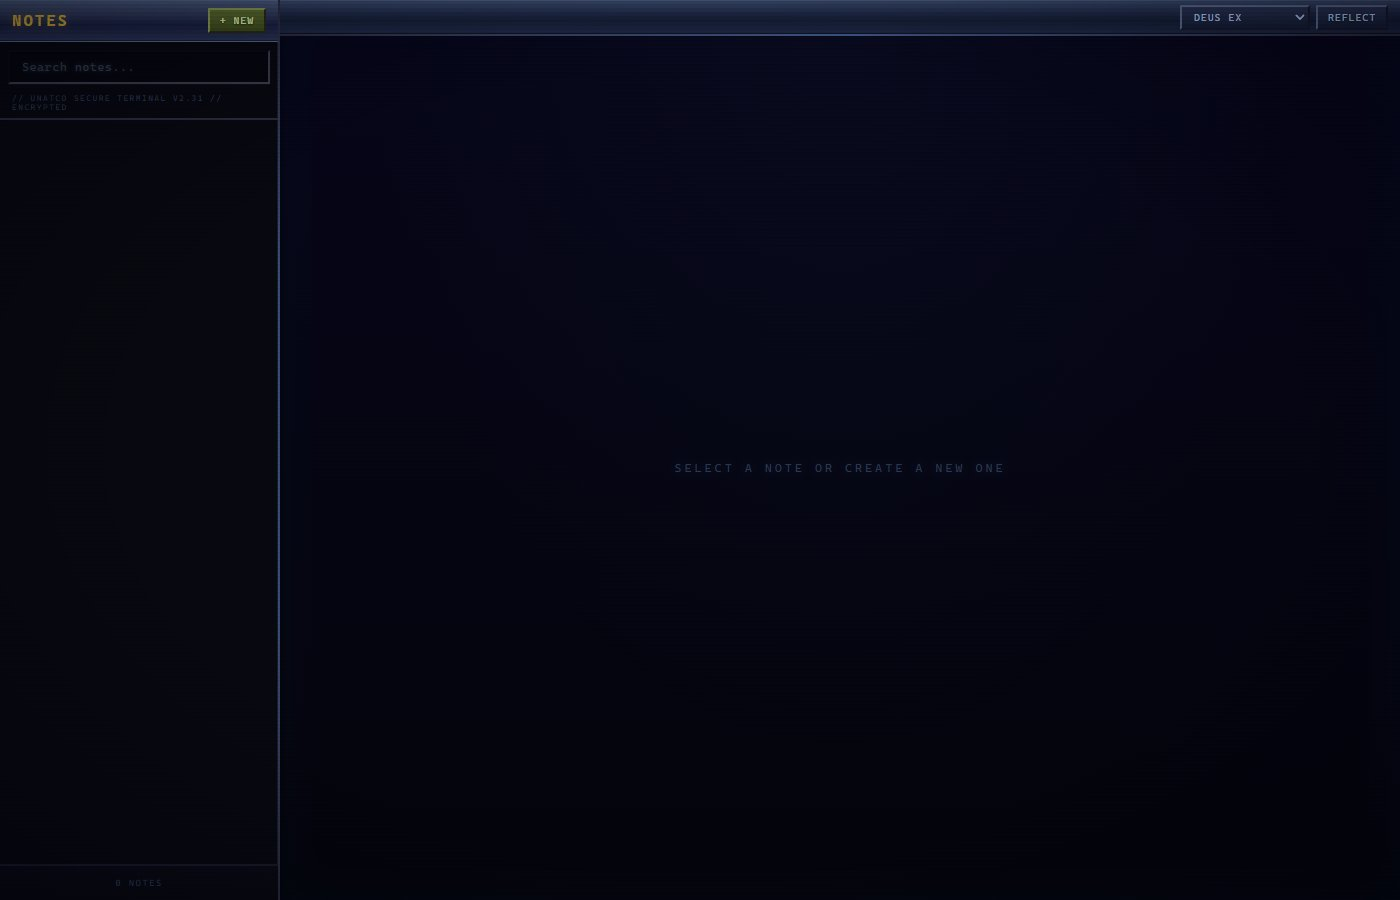
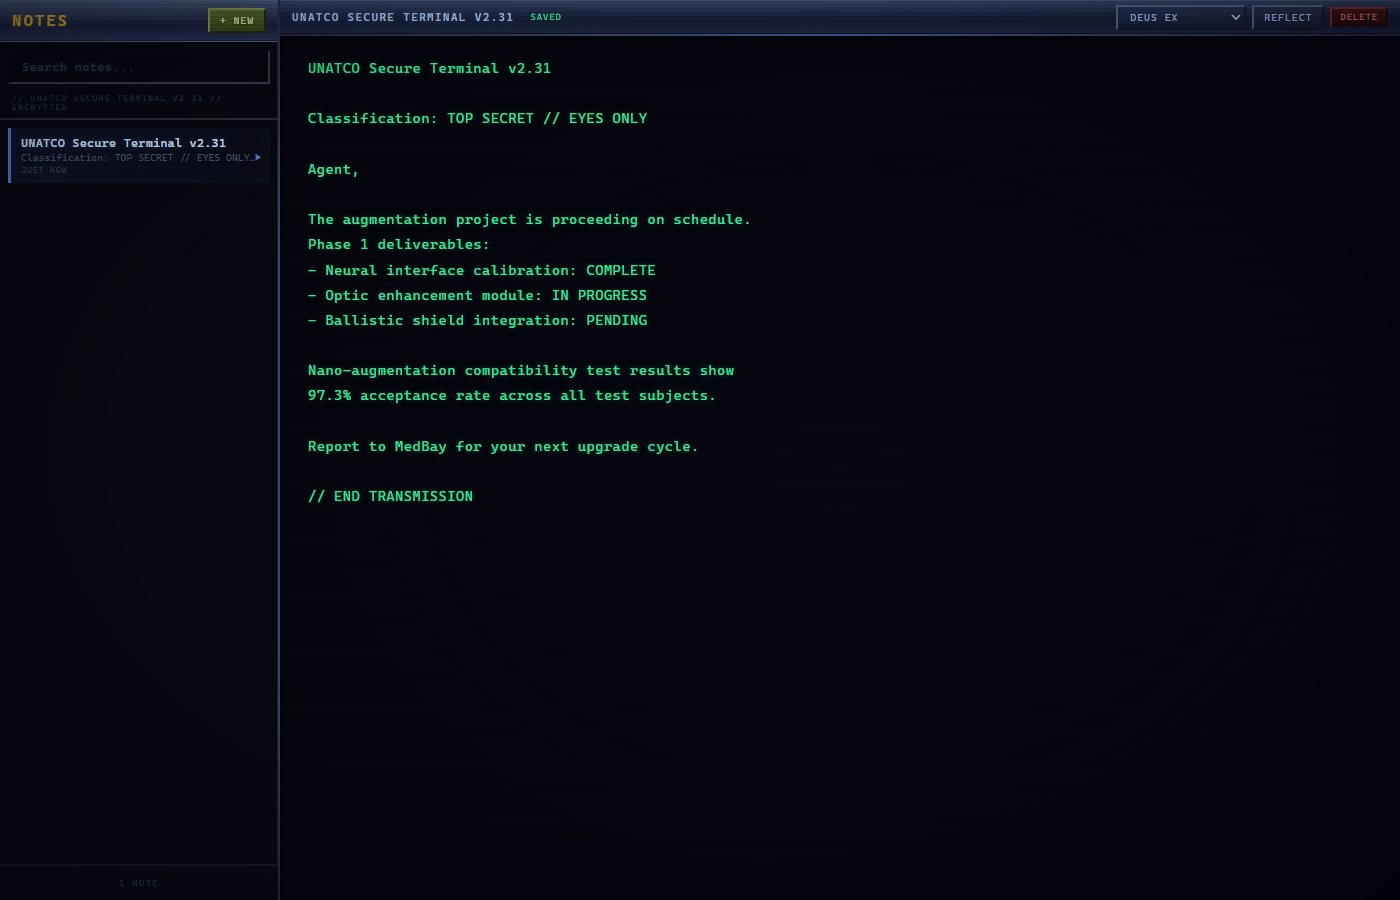
Update about (Meta monetization, AI-native), fix theme screenshots, add Podcast Editor + Suno Video Generator, remove Smurf Village + Finance Dashboard

diff --git a/podcast-editor.html b/podcast-editor.html
@@ -1,0 +1,158 @@
+<!DOCTYPE html>
+<html lang="en">
+<head>
+  <meta charset="UTF-8">
+  <meta name="viewport" content="width=device-width, initial-scale=1.0">
+  <title>Podcast Editor — Nick Eisele</title>
+  <meta name="description" content="A full-pipeline podcast editor with AI-powered transcription, silence detection, content flagging, and waveform editing.">
+  <link rel="preconnect" href="https://fonts.googleapis.com">
+  <link rel="preconnect" href="https://fonts.gstatic.com" crossorigin>
+  <link href="https://fonts.googleapis.com/css2?family=Inter:wght@400;500;600;700&family=JetBrains+Mono:wght@400;500&display=swap" rel="stylesheet">
+  <link rel="stylesheet" href="style.css">
+  <link rel="stylesheet" href="project-page.css">
+</head>
+<body>
+
+  <nav class="nav" id="nav">
+    <a href="index.html" class="nav-logo">NE</a>
+    <div class="nav-links">
+      <a href="index.html#projects">Projects</a>
+      <a href="index.html#contact">Contact</a>
+    </div>
+    <button class="nav-toggle" aria-label="Toggle menu" id="nav-toggle">
+      <span></span><span></span><span></span>
+    </button>
+  </nav>
+
+  <div class="mobile-menu" id="mobile-menu">
+    <a href="index.html#projects" onclick="closeMobile()">Projects</a>
+    <a href="index.html#contact" onclick="closeMobile()">Contact</a>
+  </div>
+
+  <header class="project-hero">
+    <a href="index.html#projects" class="back-link">&larr; All Projects</a>
+    <h1>Podcast Editor</h1>
+    <p class="project-hero-desc">A full-pipeline podcast editing app — upload raw footage, and it handles transcription, cleanup, editing, and export.</p>
+    <div class="project-meta">
+      <span class="tag">React 19</span>
+      <span class="tag">TypeScript</span>
+      <span class="tag">FastAPI</span>
+      <span class="tag">Whisper</span>
+      <span class="tag">Claude AI</span>
+      <span class="tag">WebSockets</span>
+      <span class="tag">FFmpeg</span>
+      <span class="tag">WaveSurfer.js</span>
+    </div>
+  </header>
+
+  <section class="section">
+    <div class="container">
+
+      <div class="showcase">
+        <img src="img/podcast-editor.jpg" alt="Podcast Editor — Projects view" class="showcase-img">
+        <p class="showcase-caption">The projects dashboard — pick up where you left off or start a new episode.</p>
+      </div>
+
+      <div class="project-overview">
+        <div class="overview-block">
+          <h2>What it is</h2>
+          <p>A web-based podcast editor that takes raw video/audio recordings and runs them through an automated processing pipeline: transcription via Whisper, silence detection, AI-powered content flagging (via Claude), filler word detection, mouth noise cleanup, and noise reduction.</p>
+          <p>After processing, you get an interactive waveform editor where you can review, approve, or reject each detected issue — then export a polished MP4 or MP3. The whole thing runs locally, no cloud uploads needed.</p>
+        </div>
+
+        <div class="overview-block">
+          <h2>Key Features</h2>
+          <ul class="feature-list">
+            <li><strong>Automatic processing pipeline</strong> — Upload files and the backend handles: audio extraction, Whisper transcription, silence detection, AI content flagging, mouth noise detection, filler word detection, and noise reduction.</li>
+            <li><strong>Waveform timeline editor</strong> — Visual waveform with color-coded segments (silence, AI-flagged, bleeps, mutes, manual cuts). Click to review, drag to adjust boundaries.</li>
+            <li><strong>AI content flagging</strong> — Claude analyzes the transcript and flags potentially problematic segments with explanations, so you can review before publishing.</li>
+            <li><strong>Word-level bleeping</strong> — Search the transcript and bleep specific words with a tone or mute, with precise word-level timing from Whisper.</li>
+            <li><strong>Speaker diarization</strong> — Automatic speaker separation with color-coded tracks. Assign names and labels to each speaker.</li>
+            <li><strong>Real-time progress</strong> — WebSocket connection streams processing status and export progress, including live video frame previews during render.</li>
+            <li><strong>Multi-file support</strong> — Upload multiple MP4/MOV files that get concatenated in order, with 10MB chunked uploads for large files.</li>
+          </ul>
+        </div>
+      </div>
+
+      <div class="overview-block">
+        <h2>The Processing Pipeline</h2>
+        <p>When you upload files, the backend kicks off a multi-stage pipeline. Each stage runs as a background task with real-time progress updates via WebSocket.</p>
+        <div class="arch-diagram">
+          <div class="arch-layer">
+            <span class="arch-label">Upload</span>
+            <span class="arch-detail">Chunked upload (10MB) → file concatenation → MP4/MOV</span>
+          </div>
+          <div class="arch-arrow">&darr;</div>
+          <div class="arch-layer">
+            <span class="arch-label">Extract</span>
+            <span class="arch-detail">FFmpeg audio extraction → WAV for processing</span>
+          </div>
+          <div class="arch-arrow">&darr;</div>
+          <div class="arch-layer">
+            <span class="arch-label">Transcribe</span>
+            <span class="arch-detail">faster-whisper → word-level timestamps + speaker indices</span>
+          </div>
+          <div class="arch-arrow">&darr;</div>
+          <div class="arch-layer">
+            <span class="arch-label">Detect</span>
+            <span class="arch-detail">Silence, mouth noise, filler words, padding phrases (parallel)</span>
+          </div>
+          <div class="arch-arrow">&darr;</div>
+          <div class="arch-layer">
+            <span class="arch-label">AI Flag</span>
+            <span class="arch-detail">Claude reviews transcript → flags problematic content with reasons</span>
+          </div>
+          <div class="arch-arrow">&darr;</div>
+          <div class="arch-layer">
+            <span class="arch-label">Edit</span>
+            <span class="arch-detail">Interactive waveform editor → approve/reject/adjust segments</span>
+          </div>
+          <div class="arch-arrow">&darr;</div>
+          <div class="arch-layer">
+            <span class="arch-label">Export</span>
+            <span class="arch-detail">Noise reduction → normalization → FFmpeg render → MP4/MP3</span>
+          </div>
+        </div>
+      </div>
+
+      <div class="overview-block">
+        <h2>Architecture</h2>
+        <div class="arch-diagram">
+          <div class="arch-layer">
+            <span class="arch-label">Frontend</span>
+            <span class="arch-detail">React 19 + TypeScript + Zustand + WaveSurfer.js + Tailwind CSS</span>
+          </div>
+          <div class="arch-arrow">&darr; HTTP + WebSocket</div>
+          <div class="arch-layer">
+            <span class="arch-label">Backend</span>
+            <span class="arch-detail">FastAPI + SQLAlchemy (SQLite) + arq (Redis task queue)</span>
+          </div>
+          <div class="arch-arrow">&darr;</div>
+          <div class="arch-layer">
+            <span class="arch-label">AI / ML</span>
+            <span class="arch-detail">faster-whisper (transcription) + Anthropic Claude (content classification)</span>
+          </div>
+          <div class="arch-arrow">&darr;</div>
+          <div class="arch-layer">
+            <span class="arch-label">Media</span>
+            <span class="arch-detail">FFmpeg (video/audio) + OpenCV + pydub + noisereduce + scipy</span>
+          </div>
+        </div>
+      </div>
+
+      <div class="overview-block">
+        <h2>Why I built it</h2>
+        <p>I was recording podcast episodes and the editing workflow was painful — silence trimming, content review, bleeping, and export all required different tools. I wanted one app that could take raw footage and handle the entire pipeline, with AI doing the tedious parts (flagging content, detecting filler words) so I could focus on creative decisions.</p>
+        <p>The waveform editor is the centerpiece. Each detected issue shows up as a color-coded segment on the timeline — amber for silence, red for AI-flagged content, pink for bleeps. You review each one, approve or reject, adjust the boundaries if needed, and export. The whole flow from raw footage to finished episode happens in one place.</p>
+      </div>
+
+    </div>
+  </section>
+
+  <footer class="footer">
+    <p>&copy; 2024 Nick Eisele. Built with care.</p>
+  </footer>
+
+  <script src="script.js"></script>
+</body>
+</html>

diff --git a/musetalk.html b/musetalk.html
@@ -1,0 +1,127 @@
+<!DOCTYPE html>
+<html lang="en">
+<head>
+  <meta charset="UTF-8">
+  <meta name="viewport" content="width=device-width, initial-scale=1.0">
+  <title>Suno Video Generator — Nick Eisele</title>
+  <meta name="description" content="AI-powered lip-sync video generation using MuseTalk — portrait + audio in, realistic talking-head video out.">
+  <link rel="preconnect" href="https://fonts.googleapis.com">
+  <link rel="preconnect" href="https://fonts.gstatic.com" crossorigin>
+  <link href="https://fonts.googleapis.com/css2?family=Inter:wght@400;500;600;700&family=JetBrains+Mono:wght@400;500&display=swap" rel="stylesheet">
+  <link rel="stylesheet" href="style.css">
+  <link rel="stylesheet" href="project-page.css">
+</head>
+<body>
+
+  <nav class="nav" id="nav">
+    <a href="index.html" class="nav-logo">NE</a>
+    <div class="nav-links">
+      <a href="index.html#projects">Projects</a>
+      <a href="index.html#contact">Contact</a>
+    </div>
+    <button class="nav-toggle" aria-label="Toggle menu" id="nav-toggle">
+      <span></span><span></span><span></span>
+    </button>
+  </nav>
+
+  <div class="mobile-menu" id="mobile-menu">
+    <a href="index.html#projects" onclick="closeMobile()">Projects</a>
+    <a href="index.html#contact" onclick="closeMobile()">Contact</a>
+  </div>
+
+  <header class="project-hero">
+    <a href="index.html#projects" class="back-link">&larr; All Projects</a>
+    <h1>Suno Video Generator</h1>
+    <p class="project-hero-desc">AI-powered lip-sync video generation — feed it a portrait and audio, get a realistic talking-head video out.</p>
+    <div class="project-meta">
+      <span class="tag">Python</span>
+      <span class="tag">PyTorch</span>
+      <span class="tag">FastAPI</span>
+      <span class="tag">Gradio</span>
+      <span class="tag">Whisper</span>
+      <span class="tag">VAE</span>
+      <span class="tag">FFmpeg</span>
+    </div>
+  </header>
+
+  <section class="section">
+    <div class="container">
+
+      <div class="showcase">
+        <img src="img/musetalk.svg" alt="Suno Video Generator — Pipeline diagram" class="showcase-img">
+        <p class="showcase-caption">Portrait + audio in → AI lip-sync video out.</p>
+      </div>
+
+      <div class="project-overview">
+        <div class="overview-block">
+          <h2>What it is</h2>
+          <p>A real-time AI video generation tool built on MuseTalk that creates lip-synced talking videos from a single portrait image and an audio track. You give it a photo and some audio — a Suno-generated song, a voice recording, whatever — and it produces a video where the face naturally mouths along to the audio.</p>
+          <p>It runs locally on your GPU (NVIDIA), generating 30+ fps on a V100. The model uses a single-step inpainting approach (not iterative diffusion), which is what makes it fast enough for real-time use.</p>
+        </div>
+
+        <div class="overview-block">
+          <h2>Key Features</h2>
+          <ul class="feature-list">
+            <li><strong>Single-shot lip sync</strong> — One portrait image + any audio = realistic talking-head video. No training required per face.</li>
+            <li><strong>Real-time generation</strong> — 30+ fps on NVIDIA GPU using single-step inpainting, not iterative diffusion.</li>
+            <li><strong>Multi-language support</strong> — Works with English, Chinese, and Japanese audio out of the box.</li>
+            <li><strong>Fine-grained control</strong> — Adjustable bounding box, cheek width, jaw margin, and face parsing mode to tune the output.</li>
+            <li><strong>Debug mode</strong> — Test inpainting on the first frame before committing to a full render.</li>
+            <li><strong>Dual interface</strong> — Gradio web UI for interactive use, FastAPI endpoint for programmatic access.</li>
+          </ul>
+        </div>
+      </div>
+
+      <div class="overview-block">
+        <h2>How it works</h2>
+        <p>The pipeline chains together several ML models. First, Whisper-Tiny encodes the audio into feature embeddings that capture mouth shape information. The reference portrait goes through a VAE encoder to get a latent representation. A face parsing model identifies the lip region to create an inpainting mask.</p>
+        <p>Then a custom UNet (architecturally similar to Stable Diffusion's, but repurposed for single-step inpainting) takes the masked latent, the audio embedding, and generates the lip region in a single forward pass — no iterative denoising. The result gets decoded through the VAE decoder, composited back onto the original frame, and rendered out as video with FFmpeg.</p>
+        <div class="arch-diagram">
+          <div class="arch-layer">
+            <span class="arch-label">Input</span>
+            <span class="arch-detail">Portrait image + audio file (MP3/WAV)</span>
+          </div>
+          <div class="arch-arrow">&darr;</div>
+          <div class="arch-layer">
+            <span class="arch-label">Encode</span>
+            <span class="arch-detail">Whisper-Tiny (audio → embeddings) + VAE (image → latent space)</span>
+          </div>
+          <div class="arch-arrow">&darr;</div>
+          <div class="arch-layer">
+            <span class="arch-label">Parse</span>
+            <span class="arch-detail">Face parsing model → lip region mask + bounding box</span>
+          </div>
+          <div class="arch-arrow">&darr;</div>
+          <div class="arch-layer">
+            <span class="arch-label">Generate</span>
+            <span class="arch-detail">Custom UNet single-step inpainting → lip-synced latent</span>
+          </div>
+          <div class="arch-arrow">&darr;</div>
+          <div class="arch-layer">
+            <span class="arch-label">Decode</span>
+            <span class="arch-detail">VAE decoder → composite onto original frame → FFmpeg render</span>
+          </div>
+        </div>
+      </div>
+
+      <div class="overview-block">
+        <h2>The Gradio UI</h2>
+        <p>The interface is split into two columns. On the left: upload your audio and reference portrait, then dial in the parameters — bounding box shift, jaw margin, cheek width, and parsing mode. There's a "Test Inpainting" button to preview the first frame before committing to a full render. On the right: the debug preview and the final output video player.</p>
+        <p>For programmatic use, the FastAPI backend exposes a <code>POST /generate</code> endpoint that accepts the same inputs and returns the rendered video, making it easy to integrate into other pipelines.</p>
+      </div>
+
+      <div class="overview-block">
+        <h2>Why I built it</h2>
+        <p>I wanted to generate music videos from Suno tracks without filming anything. The idea was simple: take a Suno-generated song, pair it with a portrait, and get a video where the face sings along. MuseTalk's single-step approach was the right fit because it's fast enough to iterate quickly — you can test different portraits, adjust the parameters, and preview without waiting minutes for each render.</p>
+      </div>
+
+    </div>
+  </section>
+
+  <footer class="footer">
+    <p>&copy; 2024 Nick Eisele. Built with care.</p>
+  </footer>
+
+  <script src="script.js"></script>
+</body>
+</html>

diff --git a/index.html b/index.html
@@ -41,7 +41,7 @@
         <p class="hero-greeting">Hey, I'm</p>
         <h1 class="hero-name">Nick Eisele<span class="accent">.</span></h1>
         <p class="hero-role">Software Engineer at <span class="highlight">Meta</span></p>
-        <p class="hero-desc">I build things for the web — from large-scale production systems to weird side projects. React, TypeScript, Java, and whatever else gets the job done.</p>
+        <p class="hero-desc">AI-native engineer working on monetization — I use AI to design, build, and maintain software. Currently improving the experience for IG advertisers on Meta's business tools.</p>
         <div class="hero-actions">
           <a href="#projects" class="btn-primary">View Projects</a>
           <a href="mailto:nickolas_eisele@alumni.brown.edu" class="btn-ghost">Get in Touch</a>
@@ -64,9 +64,9 @@
       <h2 class="section-title">About Me</h2>
       <div class="about-grid">
         <div class="about-text">
-          <p>I'm a software engineer at <strong>Meta</strong>, building products at scale. Before that I was at <strong>Amazon</strong> working on workforce staffing applications in the High Volume Hiring org.</p>
-          <p>My day-to-day is <strong>React</strong>, <strong>TypeScript</strong>, and <strong>Java</strong>, but I'm always messing around with new stuff — local AI models, Electron apps, WebGL, whatever catches my interest.</p>
-          <p>I went to <strong>Brown University</strong>. Outside of work I'm usually building side projects — desktop apps, synthesizers, chess engines, you name it.</p>
+          <p>I'm a software engineer at <strong>Meta</strong> working in monetization. My work revolves around improving the experience for <strong>Instagram advertisers</strong> on Meta's business tools. Before Meta I was at <strong>Amazon</strong> building workforce staffing applications.</p>
+          <p>Day to day I'm an <strong>AI-native engineer</strong> — I use AI to design, build, and maintain software. My stack is <strong>React</strong>, <strong>TypeScript</strong>, and <strong>Java</strong>, but I'm always messing around with new stuff — local AI models, Electron apps, podcast tooling, whatever catches my interest.</p>
+          <p>I studied at <strong>Brown University</strong>. Outside of work I'm usually building side projects that scratch an itch — desktop apps, audio tools, video generators, you name it.</p>
         </div>
         <div class="skills-grid">
           <div class="skill-card">
@@ -189,25 +189,37 @@
           </div>
         </a>
 
-        <a href="https://portfolio-nickolas-eiseles-projects.vercel.app/finance" class="project-card" target="_blank">
+        <a href="podcast-editor.html" class="project-card">
           <div class="project-img">
-            <img src="https://portfolio-nickolas-eiseles-projects.vercel.app/finance.png" alt="Finance Dashboard" loading="lazy">
+            <img src="img/podcast-editor.jpg" alt="Podcast Editor" loading="lazy">
           </div>
           <div class="project-info">
-            <h3>Finance Dashboard</h3>
-            <p>Data-driven financial dashboard with charts, analytics, and portfolio tracking.</p>
-            <span class="project-link">Explore &rarr;</span>
+            <h3>Podcast Editor</h3>
+            <p>Full pipeline podcast editor — auto-transcription, silence detection, AI content flagging, waveform editing, and export.</p>
+            <div class="project-tags">
+              <span class="tag">React</span>
+              <span class="tag">FastAPI</span>
+              <span class="tag">Whisper</span>
+              <span class="tag">Claude</span>
+            </div>
+            <span class="project-link">View Details &rarr;</span>
           </div>
         </a>
 
-        <a href="https://portfolio-nickolas-eiseles-projects.vercel.app/smurfVillage" class="project-card" target="_blank">
+        <a href="musetalk.html" class="project-card">
           <div class="project-img">
-            <img src="https://portfolio-nickolas-eiseles-projects.vercel.app/smurfs.jpg" alt="Smurf Village" loading="lazy">
+            <img src="img/musetalk.svg" alt="Suno Video Generator" loading="lazy">
           </div>
           <div class="project-info">
-            <h3>Smurf Village</h3>
-            <p>3D interactive village scene built with WebGL and creative shaders.</p>
-            <span class="project-link">Explore &rarr;</span>
+            <h3>Suno Video Generator</h3>
+            <p>AI-powered lip-sync video generation — feed it a portrait and audio to create realistic talking-head videos.</p>
+            <div class="project-tags">
+              <span class="tag">Python</span>
+              <span class="tag">PyTorch</span>
+              <span class="tag">FastAPI</span>
+              <span class="tag">Gradio</span>
+            </div>
+            <span class="project-link">View Details &rarr;</span>
           </div>
         </a>
 

diff --git a/notes.html b/notes.html
@@ -72,11 +72,16 @@
       <h2 class="section-title">Themes</h2>
       <p class="section-subtitle">Each theme is a complete visual overhaul — not just a color swap.</p>
 
-      <div class="screenshot-grid">
+      <div class="screenshot-grid screenshot-grid-3">
         <div class="screenshot-card">
           <img src="img/notes-deusex.jpg" alt="Notes — Deus Ex theme" loading="lazy">
           <h3>Deus Ex</h3>
-          <p>UNATCO secure terminal aesthetic. Scan lines, amber text, that cyberpunk feel.</p>
+          <p>UNATCO secure terminal aesthetic. Green-on-dark with scan lines and monospace type.</p>
+        </div>
+        <div class="screenshot-card">
+          <img src="img/notes-startrek.jpg" alt="Notes — Star Trek TNG theme" loading="lazy">
+          <h3>Star Trek TNG</h3>
+          <p>LCARS-inspired interface with the signature orange/blue palette and angular design.</p>
         </div>
         <div class="screenshot-card">
           <img src="img/notes-peanuts.jpg" alt="Notes — Peanuts theme" loading="lazy">

diff --git a/project-page.css b/project-page.css
@@ -130,6 +130,10 @@
   margin-bottom: 3.5rem;
 }
 
+.screenshot-grid-3 {
+  grid-template-columns: repeat(3, 1fr);
+}
+
 .screenshot-card {
   background: var(--surface);
   border: 1px solid var(--border);
@@ -207,7 +211,8 @@
     gap: 0;
   }
 
-  .screenshot-grid {
+  .screenshot-grid,
+  .screenshot-grid-3 {
     grid-template-columns: 1fr;
   }
 
